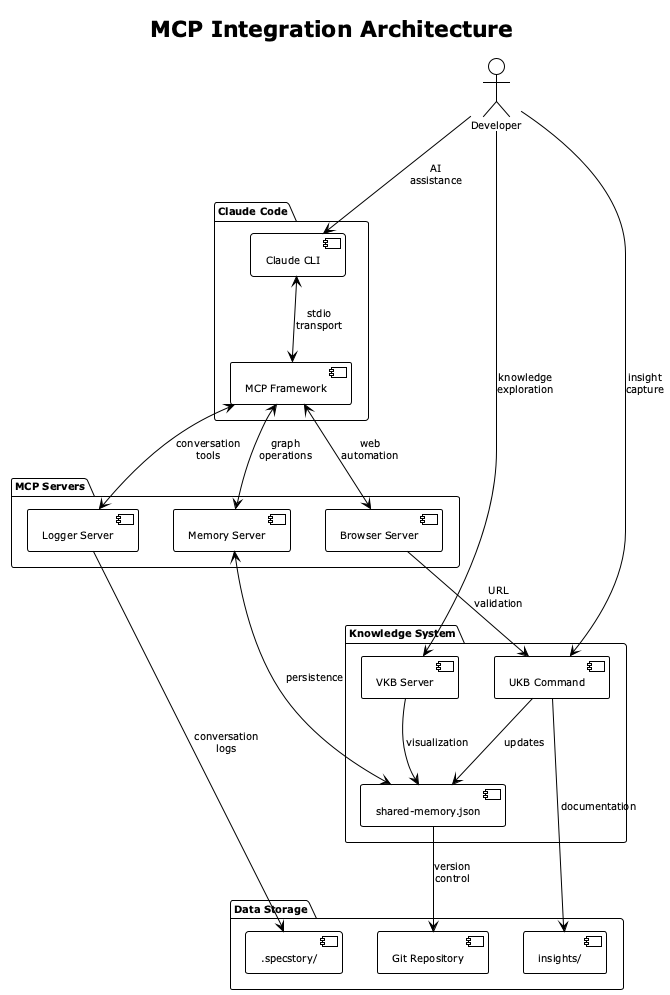
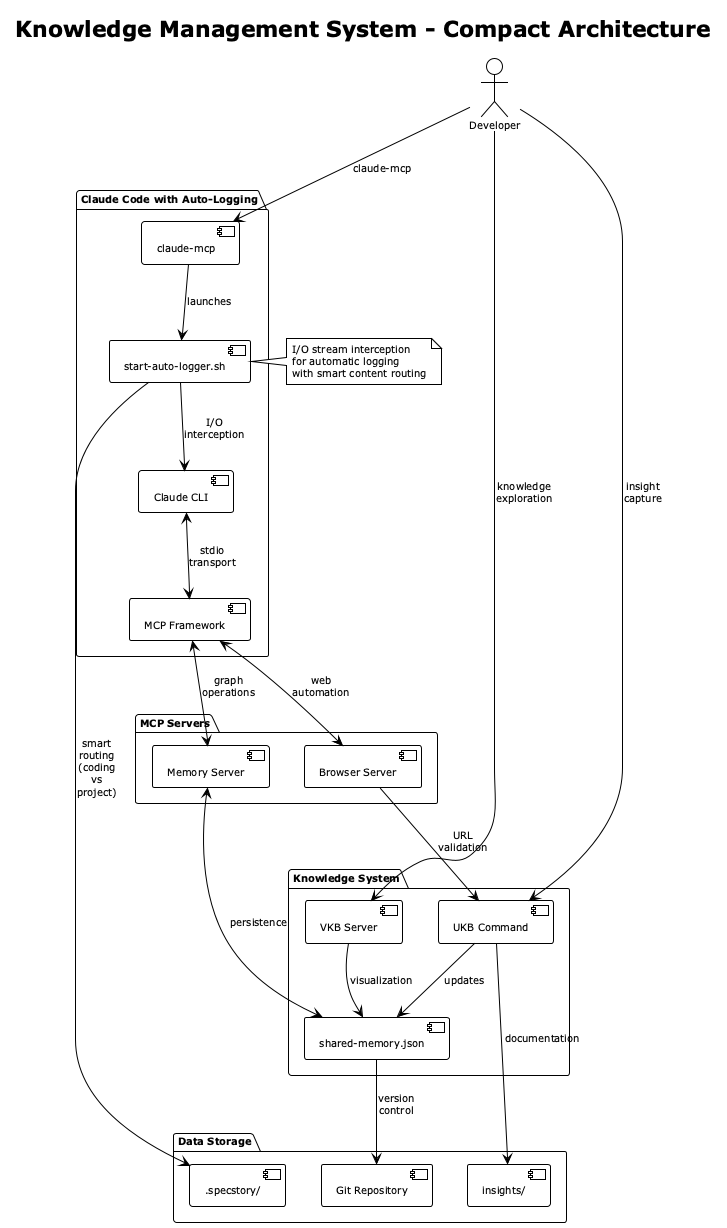
docs: updated docu & kb after removal of unused MCP server (logging) and .backup files from diagrams & descriptions

diff --git a/docs/automatic-conversation-logging.md b/docs/automatic-conversation-logging.md
@@ -8,44 +8,56 @@ The Claude Code MCP integration now includes automatic conversation logging that
 
 ### Architecture
 
-1. **MCP Server**: `claude-logger-mcp` runs as an MCP server alongside Claude Code
-2. **Auto Mode**: Uses `index-auto.js` instead of `index.js` for automatic capture
-3. **Session Management**: Each Claude Code session creates a new timestamped log file
-4. **Real-time Capture**: All prompts and responses are logged as they occur
+1. **I/O Stream Interception**: `start-auto-logger.sh` launches a Node.js process that intercepts stdin/stdout
+2. **Conversation Parsing**: Real-time analysis of conversation flow to detect user/assistant boundaries
+3. **Smart Content Routing**: Intelligent analysis determines whether content should go to coding or current project
+4. **Session Management**: Each session creates a timestamped log file in the appropriate repository
+5. **Pass-through Design**: All content is logged while maintaining normal Claude Code operation
 
 ### Implementation Details
 
-The auto-logging system consists of two versions of the claude-logger MCP server:
+The auto-logging system works independently of MCP and uses I/O stream interception:
 
-#### Manual Mode (`index.js`)
-- Requires explicit calls to `log_message` for each exchange
-- Provides tools like `enable_auto_logging`, `disable_auto_logging`, `log_message`
-- Used when fine-grained control over logging is needed
+#### Stream Interception (`start-auto-logger.sh`)
+- Launches Node.js monitoring process that intercepts Claude's stdin/stdout
+- Detects conversation boundaries using pattern matching
+- Maintains conversation state and buffers for user/assistant exchanges
+- Routes content to appropriate `.specstory/history/` directories based on content analysis
 
-#### Auto Mode (`index-auto.js`)
-- Automatically starts logging when Claude Code launches
-- Creates a session file immediately on startup
-- Intercepts all message exchanges without manual intervention
-- Extracts meaningful titles from first user messages
-- Provides `auto_log_exchange` tool for internal use
+#### Smart Content Detection
+- **Coding Keywords**: ukb, vkb, shared-memory.json, MCP, knowledge management, etc.
+- **Path Detection**: Matches coding repository paths and tool references
+- **Cross-project Routing**: Ensures coding-related discussions go to coding/.specstory/history/
+- **Dynamic Switching**: Can switch target repositories mid-conversation based on content
+
+#### Legacy MCP Tools (Still Useful)
+- `claude-logger-mcp` **kept for manual logging scenarios**:
+  - Manual conversation recording when I/O interception isn't available
+  - Debugging and testing logging functionality  
+  - Session management tools (`start_session`, `end_session`, `list_sessions`)
+  - Direct control over log formatting and metadata
+- **Not used for automatic logging** due to MCP architectural limitations
+- Tools: `enable_auto_logging`, `log_message`, `start_session`, `end_session`, `list_sessions`
 
 ### Configuration
 
-The MCP configuration template (`claude-code-mcp.json`) specifies which version to use:
+Automatic logging is configured through the `claude-mcp` launcher script:
 
-```json
-{
-  "claude-logger": {
-    "command": "node",
-    "args": ["{{CLAUDE_PROJECT_PATH}}/claude-logger-mcp/dist/index-auto.js"],
-    "env": {
-      "PROJECT_PATH": "{{CLAUDE_PROJECT_PATH}}"
-    }
-  }
-}
+```bash
+# claude-mcp script automatically detects and launches start-auto-logger.sh
+LOGGER_SCRIPT="$CODING_REPO_DIR/start-auto-logger.sh"
+if [[ -x "$LOGGER_SCRIPT" ]]; then
+    # Launch Claude with I/O interception
+    exec "$LOGGER_SCRIPT" "$(pwd)" "$CODING_REPO_DIR" "$@"
+else
+    # Fallback to Claude without logging
+    exec claude --mcp-config "$MCP_CONFIG" "$@"
+fi
 ```
 
-The `install.sh` script processes this template and replaces placeholders with actual paths.
+Environment variables:
+- `CODING_REPO`: Path to the coding repository (defaults to `/Users/q284340/Agentic/coding`)
+- Current working directory passed to determine project context
 
 ## File Structure
 
